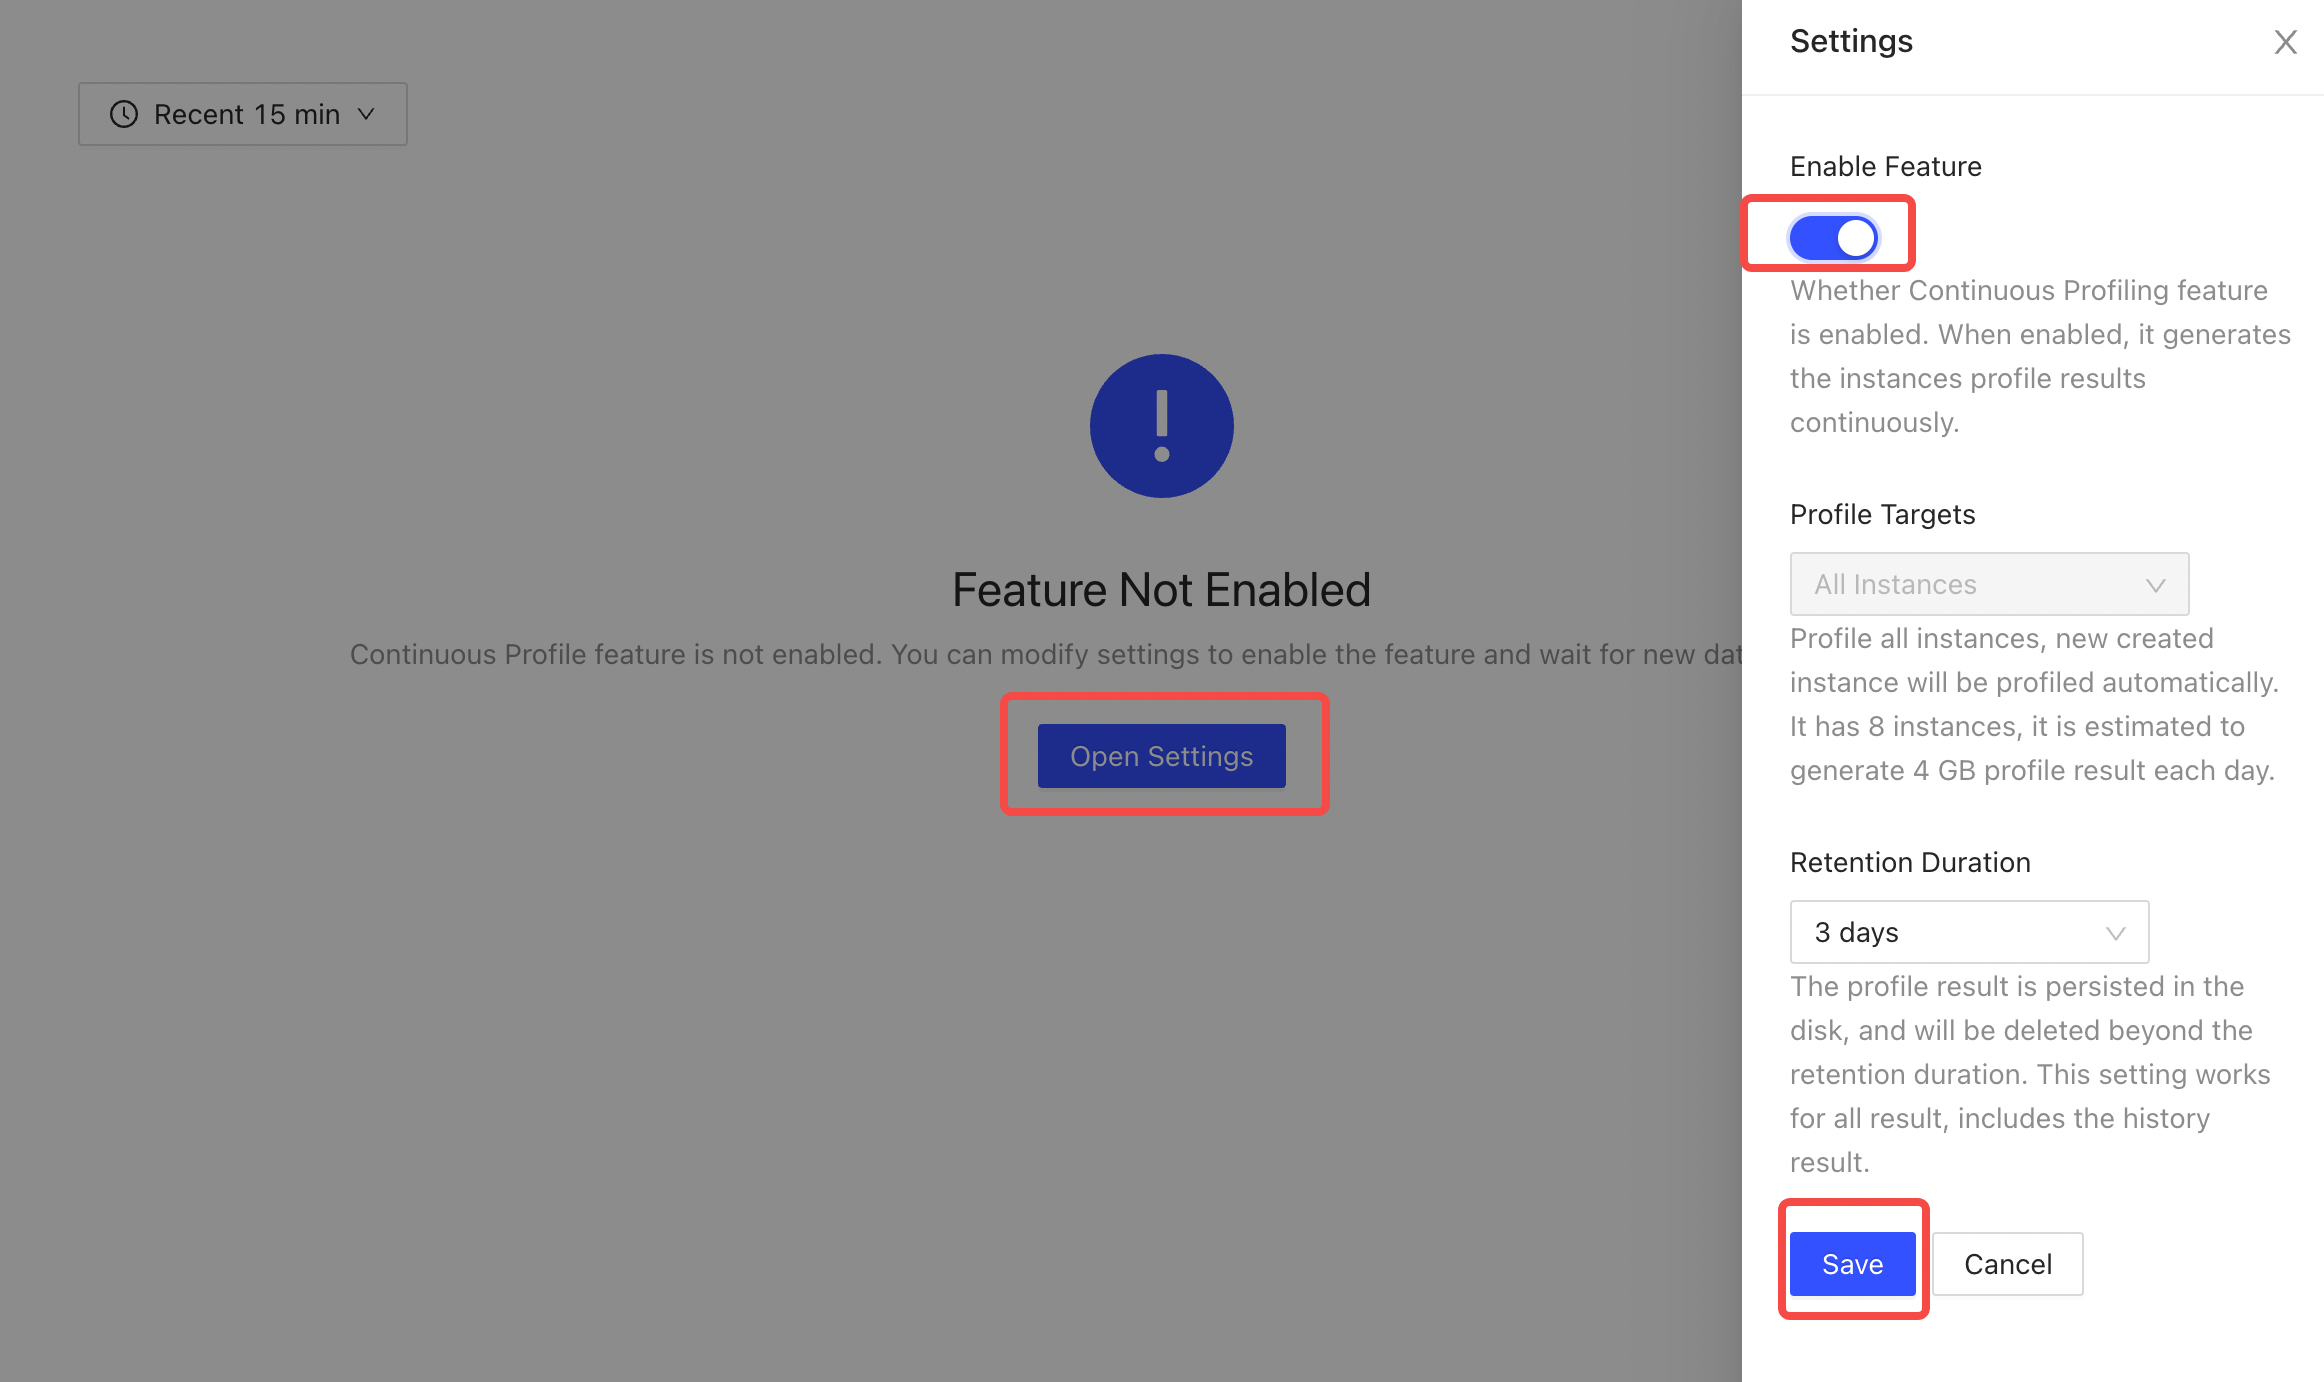
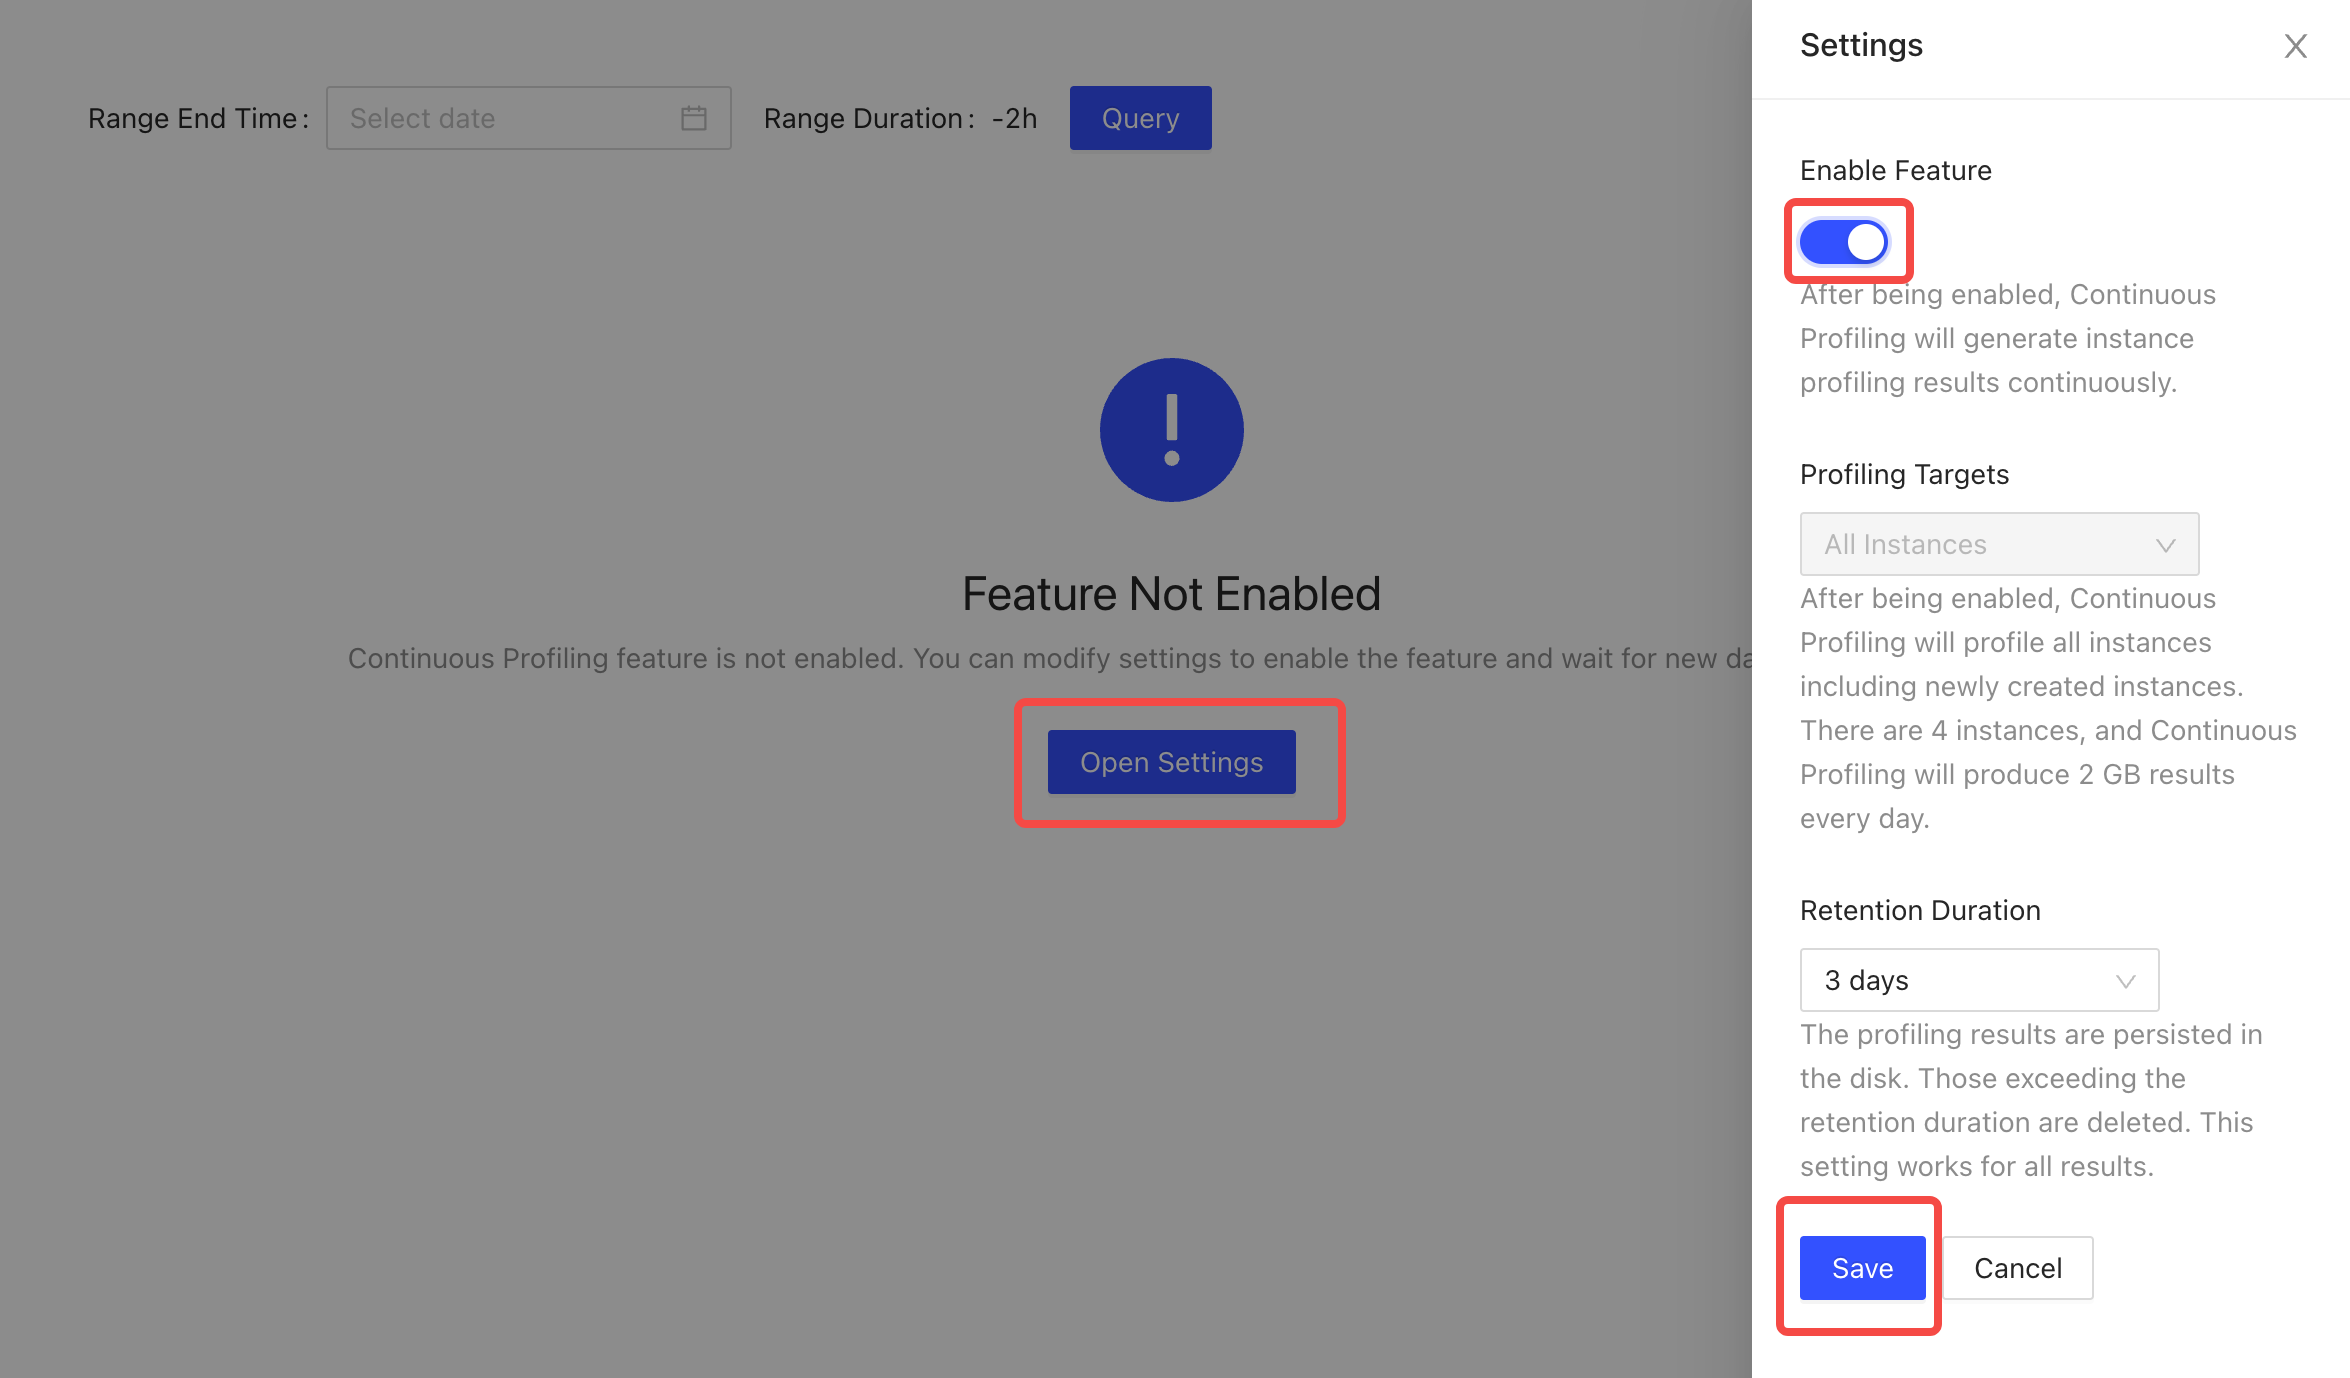
Update figure and UI words

diff --git a/zh/access-dashboard.md b/zh/access-dashboard.md
@@ -203,7 +203,7 @@ spec:
 1. 参照[部署 TiDB 集群监控与告警](monitor-a-tidb-cluster.md)部署 TidbMonitor CR。
 
 2. 部署 TidbNGMonitoring CR。
-    
+
     执行以下命令部署 TidbNGMonitoring CR，其中， `${cluster_name}` 为 TidbCluster CR 的名称，`${cluster_ns}` 为 TidbCluster CR 所在的命名空间。
 
     {{< copyable "shell-regular" >}}
@@ -218,7 +218,7 @@ spec:
       clusters:
       - name: ${cluster_name}
         ns: ${cluster_ns}
-      
+
       ngMonitoring:
         requests:
           storage: 10Gi
@@ -229,8 +229,8 @@ spec:
     关于 TidbNGMonitoring CR 的更多配置项，可参考 [tidb-operator 中的示例](https://github.com/pingcap/tidb-operator/blob/master/examples/advanced/tidb-ng-monitoring.yaml)。
 
 3. 启用持续性能分析。
-   
-    1. 进入 TiDB Dashboard，选择**高级调试** (Advanced Debugging) > **实例性能分析** (Profile Instances) > **持续分析** (Continuous Profile)。
+
+    1. 进入 TiDB Dashboard，选择**高级调试** (Advanced Debugging) > **实例性能分析** (Profiling Instances) > **持续分析** (Continuous Profiling)。
     2. 点击**打开设置** (Open Settings)。在右侧**设置** (Settings) 页面，将**启用特性** (Enable Feature) 下方的开关打开。设置**保留时间** (Retention Period) 或保留默认值。
     3. 点击**保存** (Save)。
 
